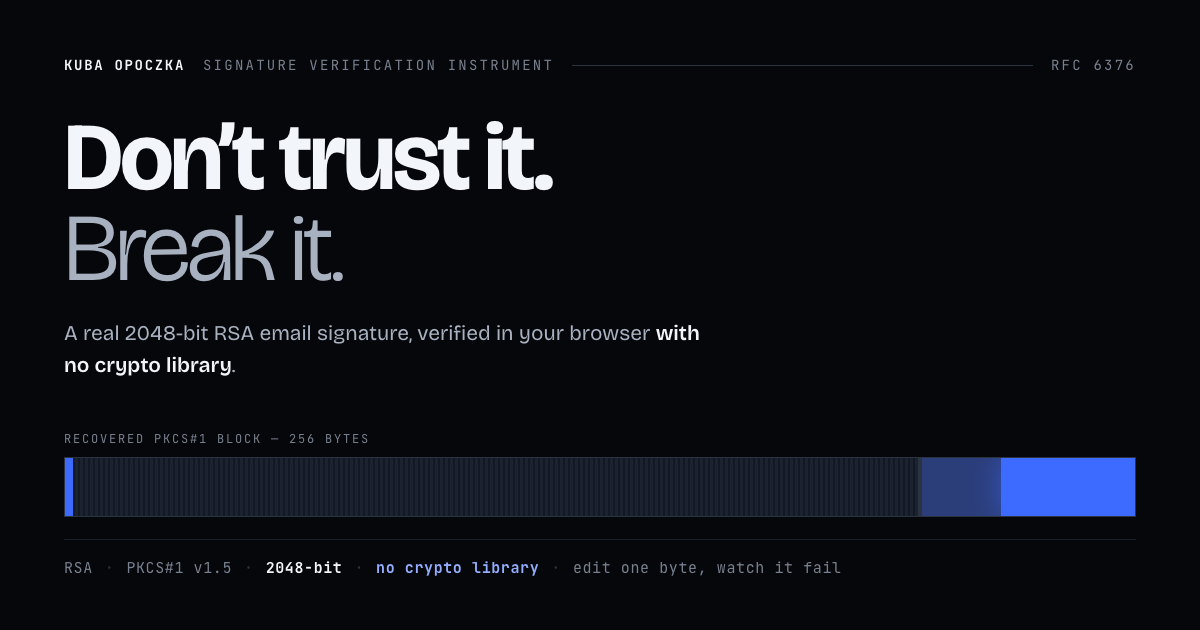
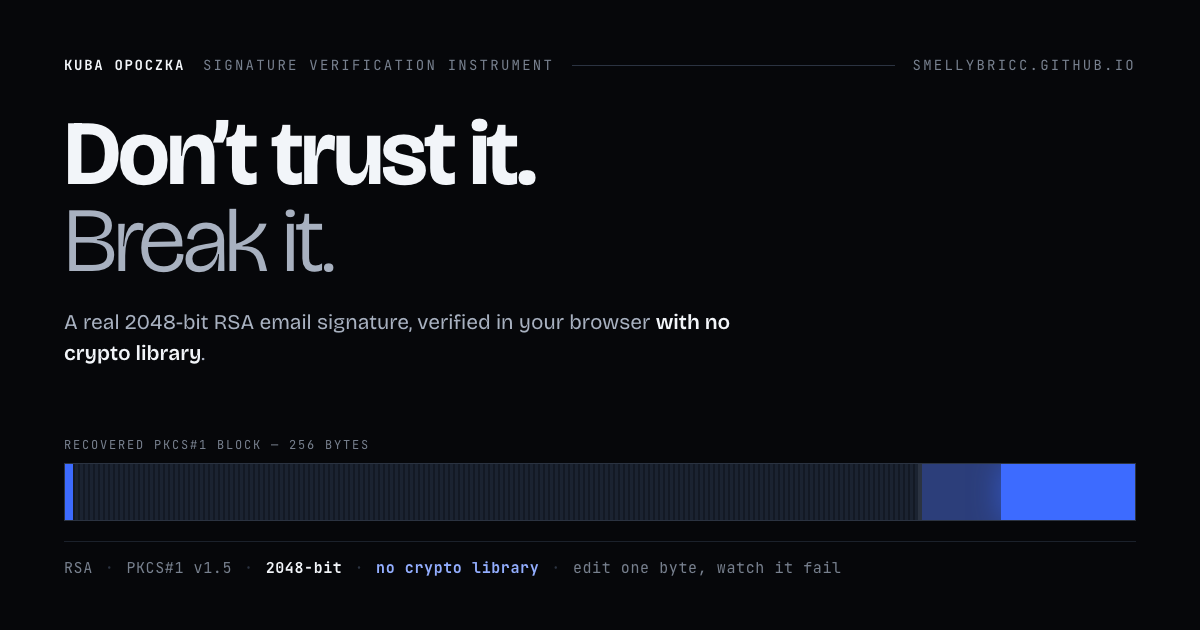
Give the CV and the essay their own share cards
Three different pages -- the verifier, the auditable CV and the essay -- were all
pointing og:image at the same root og.png. A CV and a piece of writing were being
advertised with the verifier's hero. That predates the redesign; it just became
more obviously wrong once the root card carried a specific headline.

Each page now has its own card, built from the same tokens so they read as one
system, with a device that belongs to that page: the recovered PKCS#1 block for
the verifier, the V/I/N claim classes for the CV, the three diffs for the essay.

The essay card quotes the fixes, so they were checked against the essay rather
than recalled. Two were right; the second was not. It said `hook ??=`, and the
actual change was `const hook = window.__HOOK__ || { ... }` -- extend what is
already there, not a nullish assignment. Shipping a wrong diff on the page whose
argument is "verify what the agent wrote" would have been a poor advertisement.

Checked at 552px, 360px and 240px.

diff --git a/notes/silent/index.html b/notes/silent/index.html
@@ -10,7 +10,9 @@
 <meta property="og:url" content="https://smellybricc.github.io/verify/notes/silent/">
 <meta property="og:title" content="Three bugs an AI wrote that didn't crash">
 <meta property="og:description" content="None of them threw. All of them succeeded. Every one shipped. What they had in common is the useful part.">
-<meta property="og:image" content="https://smellybricc.github.io/verify/og.png">
+<meta property="og:image" content="https://smellybricc.github.io/verify/notes/silent/og.png">
+<meta property="og:image:width" content="1200">
+<meta property="og:image:height" content="630">
 <meta name="twitter:card" content="summary_large_image">
 <style>
 @font-face{font-family:"Bricolage";src:url("../../fonts/BricolageGrotesque-var.woff2") format("woff2-variations");font-weight:200 800;font-display:swap}

diff --git a/cv/index.html b/cv/index.html
@@ -10,7 +10,9 @@
 <meta property="og:url" content="https://smellybricc.github.io/verify/cv/">
 <meta property="og:title" content="Auditable CV | Kuba Opoczka">
 <meta property="og:description" content="A CV that checks itself. Claims are verified live against GitHub and npm as the page loads. The ones that can't be are labelled as such.">
-<meta property="og:image" content="https://smellybricc.github.io/verify/og.png">
+<meta property="og:image" content="https://smellybricc.github.io/verify/cv/og.png">
+<meta property="og:image:width" content="1200">
+<meta property="og:image:height" content="630">
 <meta name="twitter:card" content="summary_large_image">
 <style>
 @font-face{font-family:"Bricolage";src:url("../fonts/BricolageGrotesque-var.woff2") format("woff2-variations");font-weight:200 800;font-display:swap}
